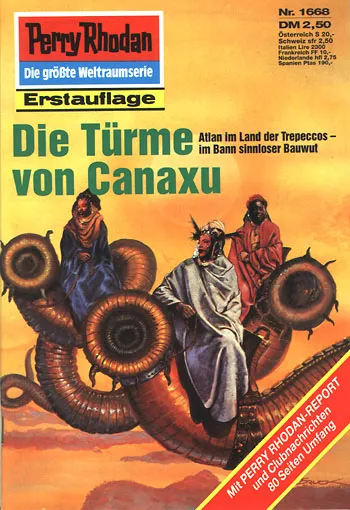
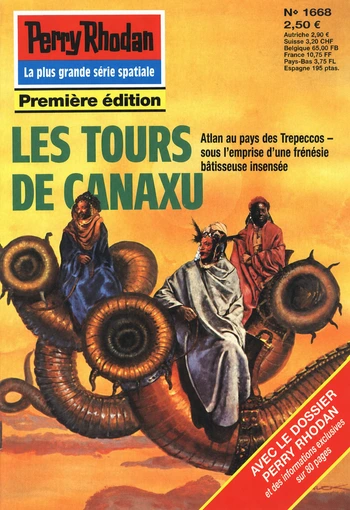
feat: add French covers 1663-1672

diff --git a/src/content/chapitres/de-1664.md b/src/content/chapitres/de-1664.md
@@ -4,7 +4,7 @@ cycleNumber: 24
 chapterNumber: 1664
 type: translation
 originalTitle: "Der Henker von Sloughar"
-cover: "/images/covers/de-1664.webp"
+cover: "/images/covers/de-1664.webp?v=20260828-1672"
 auteur: "Peter Terrid"
 parution: "1993-07-15"
 statut: traduit

diff --git a/src/content/chapitres/de-1667.md b/src/content/chapitres/de-1667.md
@@ -4,7 +4,7 @@ cycleNumber: 24
 chapterNumber: 1667
 type: translation
 originalTitle: "Die Früchte des Wissens"
-cover: "/images/covers/de-1667.webp"
+cover: "/images/covers/de-1667.webp?v=20260828-1672"
 auteur: "Robert Feldhoff"
 parution: "1993-08-05"
 statut: wip

diff --git a/src/content/chapitres/de-1668.md b/src/content/chapitres/de-1668.md
@@ -5,7 +5,7 @@ cycleNumber: 24
 chapterNumber: 1668
 type: translation
 originalTitle: "Die Türme von Canaxu"
-cover: "/images/covers/de-1668.webp"
+cover: "/images/covers/de-1668.webp?v=20260828-1672"
 auteur: "Robert Feldhoff"
 parution: "1993-08-12"
 statut: wip

diff --git a/src/content/chapitres/de-1666.md b/src/content/chapitres/de-1666.md
@@ -4,7 +4,7 @@ cycleNumber: 24
 chapterNumber: 1666
 type: translation
 originalTitle: "Der weite Horizont"
-cover: "/images/covers/de-1666.webp"
+cover: "/images/covers/de-1666.webp?v=20260828-1672"
 auteur: "Horst Hoffmann"
 parution: "1993-07-29"
 statut: wip

diff --git a/src/content/chapitres/de-1663.md b/src/content/chapitres/de-1663.md
@@ -4,7 +4,7 @@ cycleNumber: 24
 chapterNumber: 1663
 type: translation
 originalTitle: "Insel der Schatten"
-cover: "/images/covers/de-1663.webp"
+cover: "/images/covers/de-1663.webp?v=20260828-1672"
 auteur: "Peter Griese"
 parution: "1993-07-08"
 statut: wip

diff --git a/src/content/chapitres/de-1671.md b/src/content/chapitres/de-1671.md
@@ -5,7 +5,7 @@ cycleNumber: 24
 chapterNumber: 1671
 type: translation
 originalTitle: "Fluchtpunkt Mars"
-cover: "/images/covers/de-1671.webp"
+cover: "/images/covers/de-1671.webp?v=20260828-1672"
 auteur: "Arndt Ellmer"
 parution: "1993-09-02"
 statut: wip

diff --git a/src/content/chapitres/de-1665.md b/src/content/chapitres/de-1665.md
@@ -4,7 +4,7 @@ cycleNumber: 24
 chapterNumber: 1665
 type: translation
 originalTitle: "Boccus Traum"
-cover: "/images/covers/de-1665.webp"
+cover: "/images/covers/de-1665.webp?v=20260828-1672"
 auteur: "Horst Hoffmann"
 parution: "1993-07-22"
 statut: wip

diff --git a/src/content/chapitres/de-1669.md b/src/content/chapitres/de-1669.md
@@ -5,7 +5,7 @@ cycleNumber: 24
 chapterNumber: 1669
 type: translation
 originalTitle: "Der Kyberklon"
-cover: "/images/covers/de-1669.webp"
+cover: "/images/covers/de-1669.webp?v=20260828-1672"
 auteur: "Ernst Vlcek"
 parution: "1993-08-19"
 statut: wip

diff --git a/src/content/chapitres/de-1670.md b/src/content/chapitres/de-1670.md
@@ -5,7 +5,7 @@ cycleNumber: 24
 chapterNumber: 1670
 type: translation
 originalTitle: "Das Tribunal"
-cover: "/images/covers/de-1670.webp"
+cover: "/images/covers/de-1670.webp?v=20260828-1672"
 auteur: "H. G. Ewers"
 parution: "1993-08-26"
 statut: wip

diff --git a/src/content/chapitres/de-1672.md b/src/content/chapitres/de-1672.md
@@ -4,7 +4,7 @@ cycleNumber: 24
 chapterNumber: 1672
 type: translation
 originalTitle: "Ennox-Jagd"
-cover: "/images/covers/de-1672.webp"
+cover: "/images/covers/de-1672.webp?v=20260828-1672"
 auteur: "H. G. Francis"
 parution: "1993-09-09"
 statut: wip
